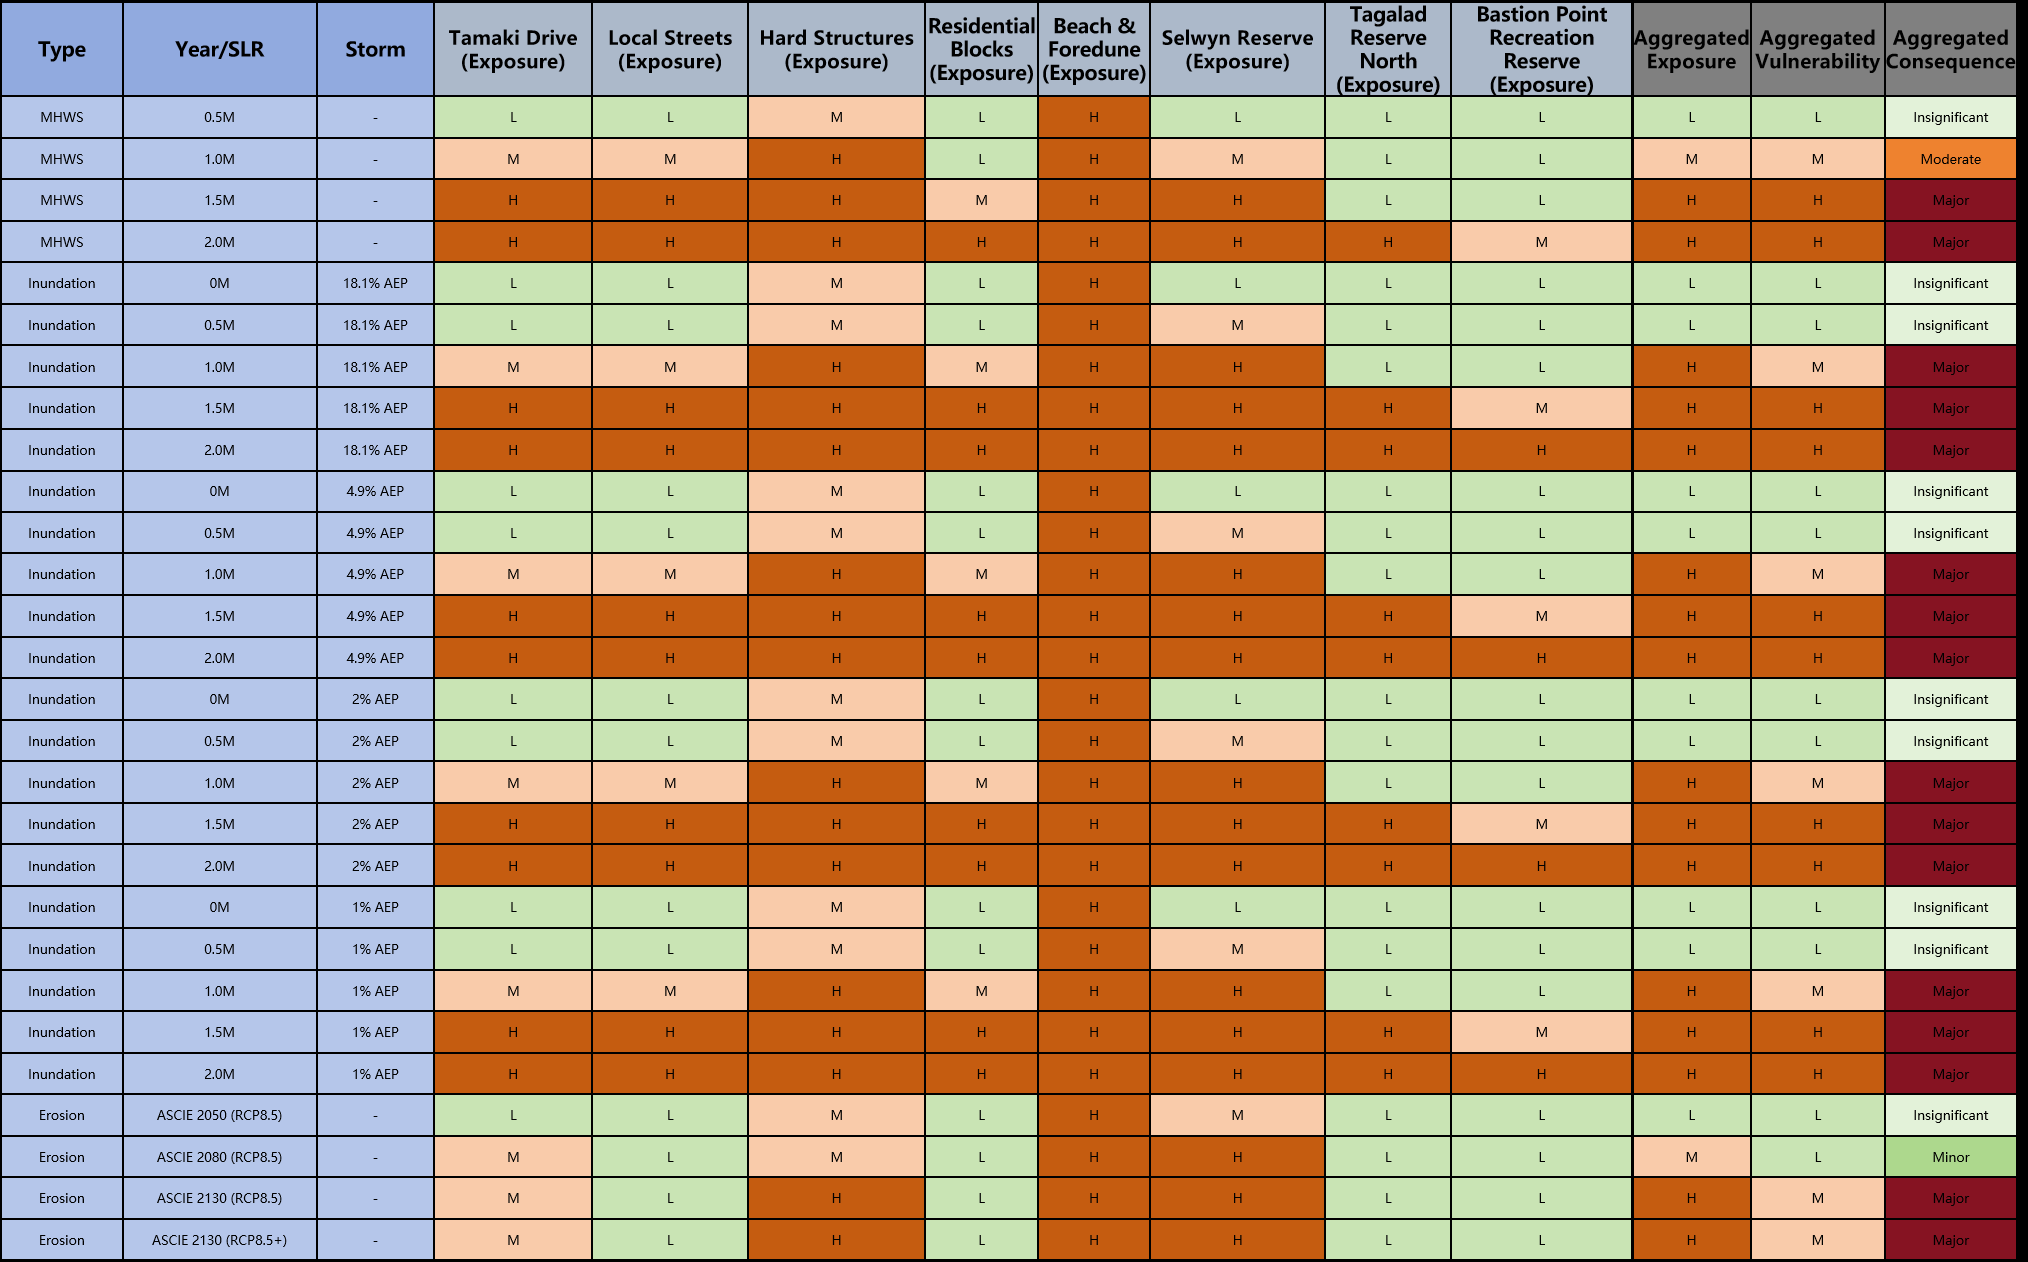
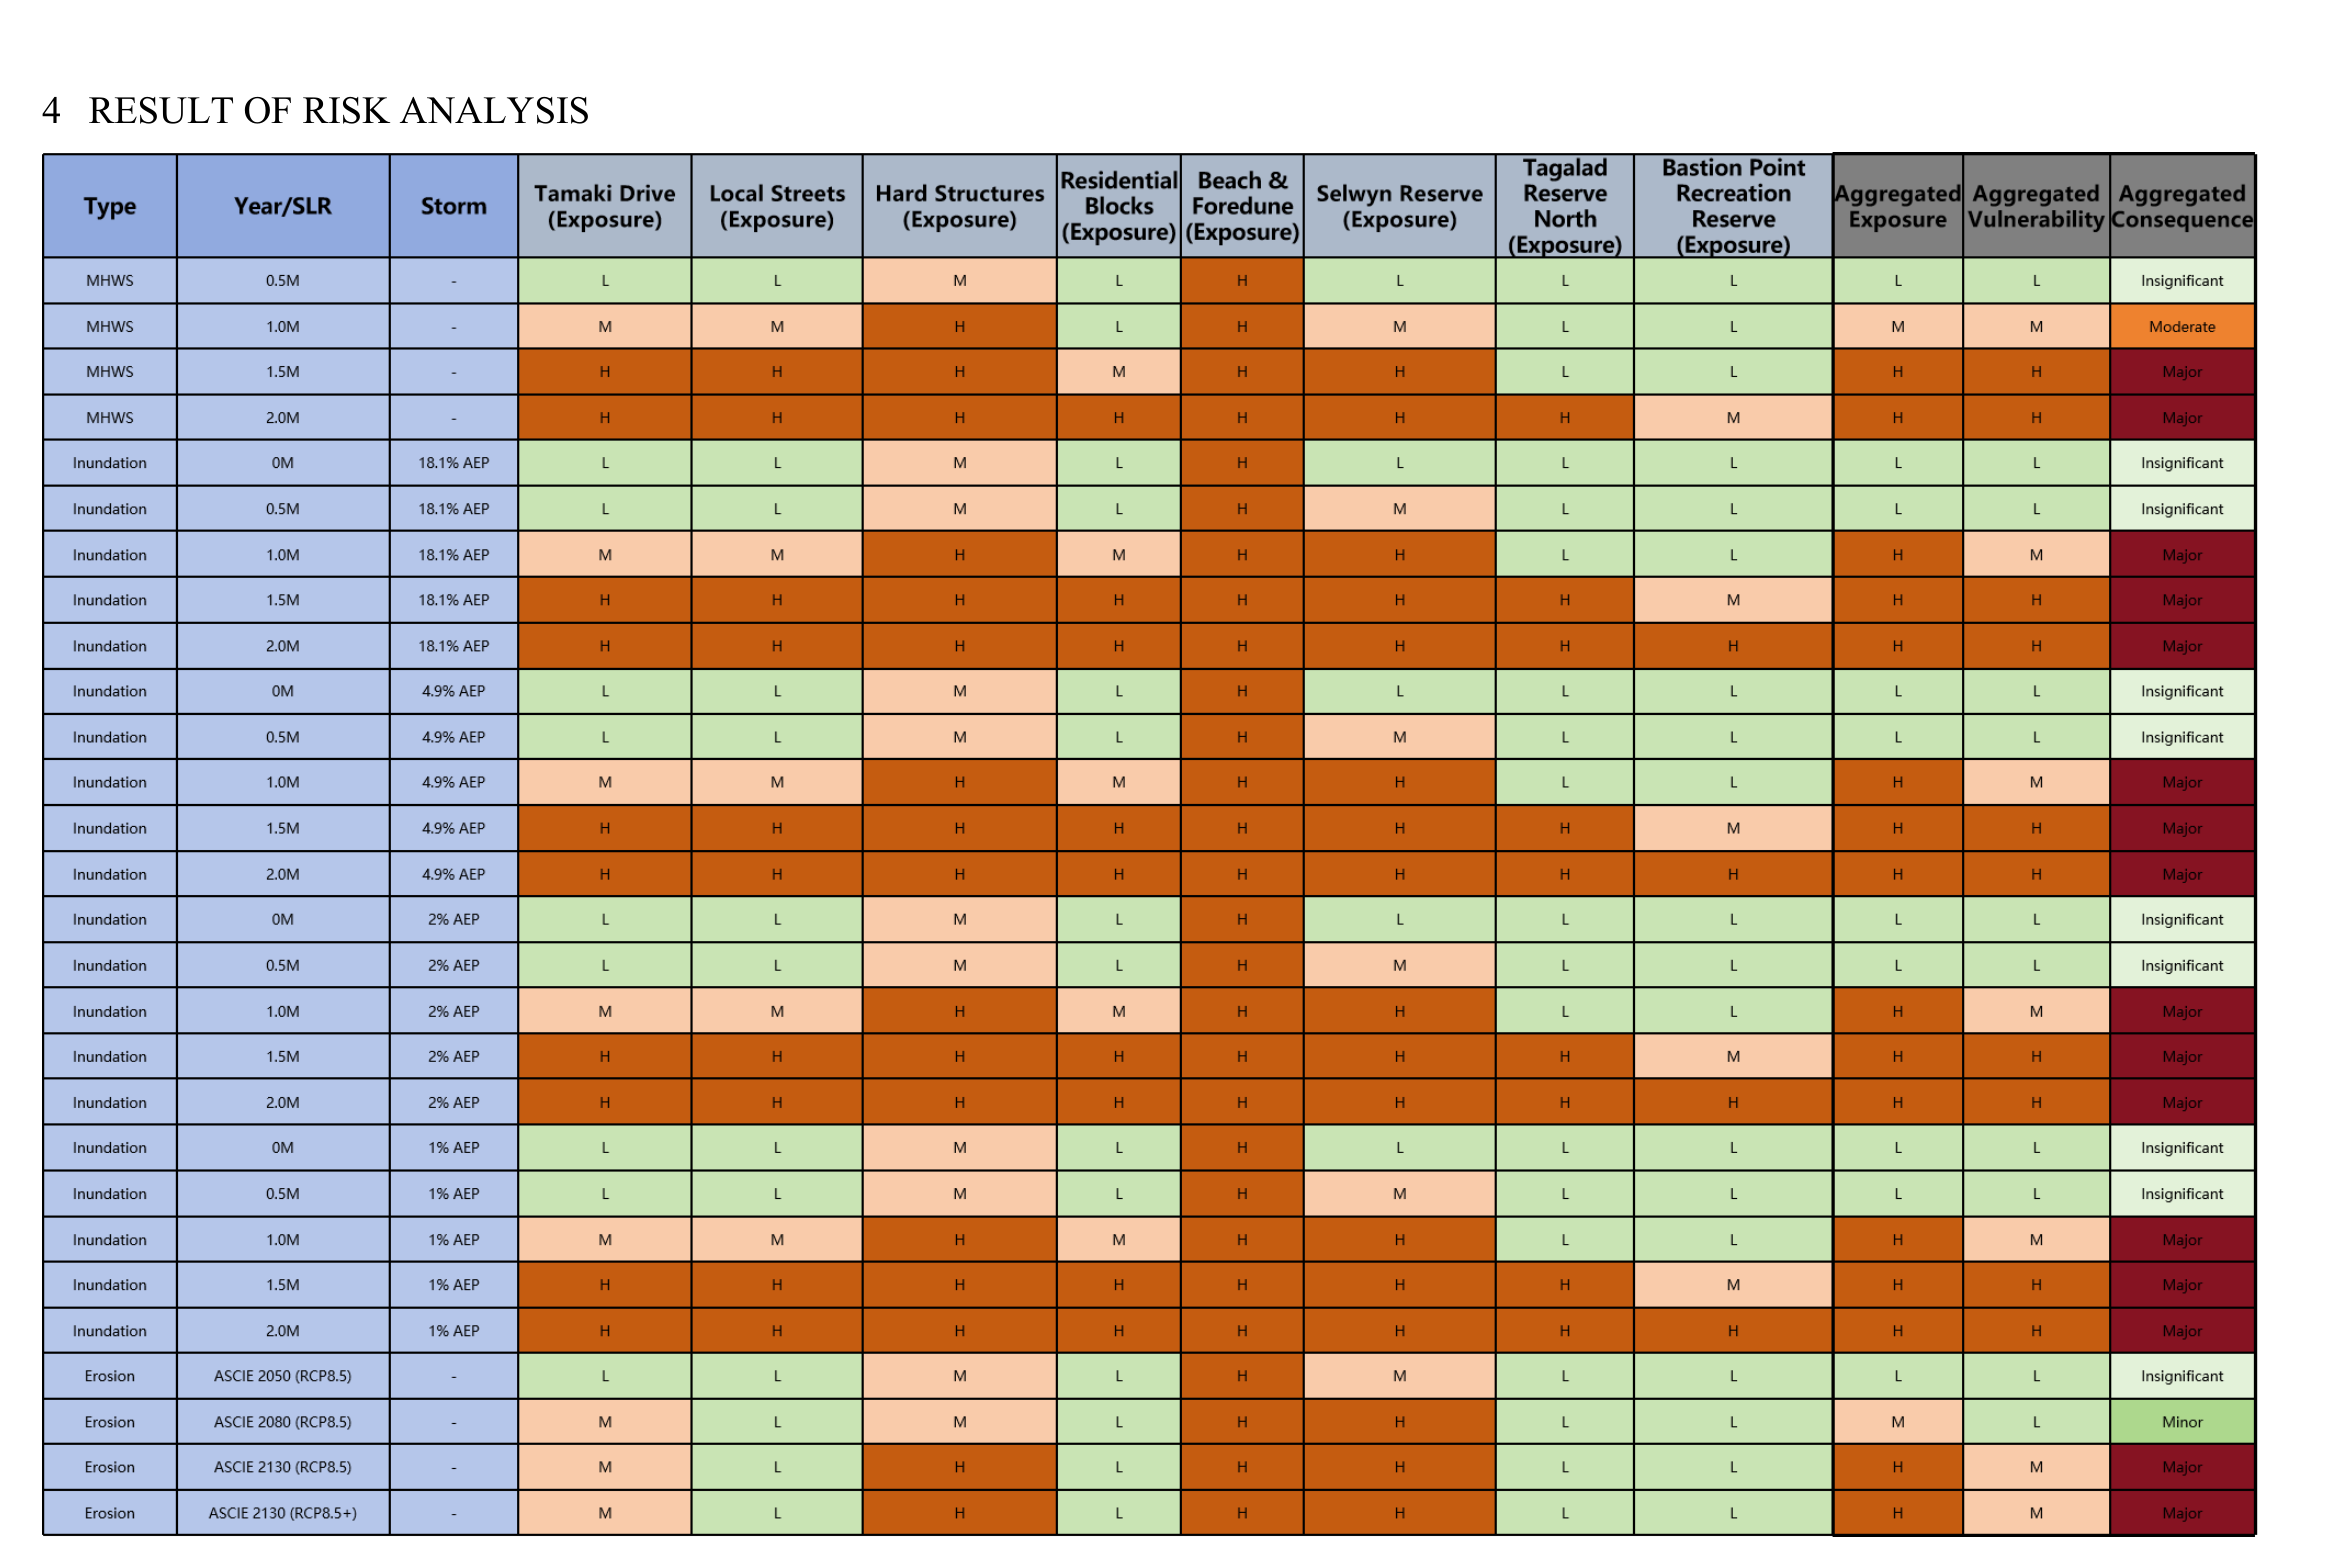
Fix risk matrix background and soften Overview wording (preliminary pathway)

diff --git a/_pages/mission-bay-adaptation.md b/_pages/mission-bay-adaptation.md
@@ -7,7 +7,7 @@ author_profile: true
 
 <div class="notice--info">
   <h4 class="no_toc"><i class="fas fa-lightbulb"></i> Project Overview</h4>
-  <p>This project, completed as part of <em>ENGGEN 726: Climate Adaptation of Infrastructure</em> and supervised by Dr. Theuns Henning, examines how the Mission Bay shoreline in Auckland may need to respond to coastal hazards under future sea-level rise. The study area covers approximately 1.45 km of coast along Tamaki Drive. The analysis considers coastal inundation and erosion, and suggests a staged adaptation pathway that may guide future planning decisions for the area.</p>
+  <p>This project, completed as part of <em>ENGGEN 726: Climate Adaptation of Infrastructure</em> and supervised by Dr. Theuns Henning, examines how the Mission Bay shoreline in Auckland may need to respond to coastal hazards under future sea-level rise. The study area covers approximately 1.45 km of coast along Tamaki Drive. The analysis considers coastal inundation and erosion, and suggests a preliminary staged adaptation pathway that may inform possible options for the area.</p>
 </div>
 
 ## <i class="fas fa-water"></i> Study Hazards
